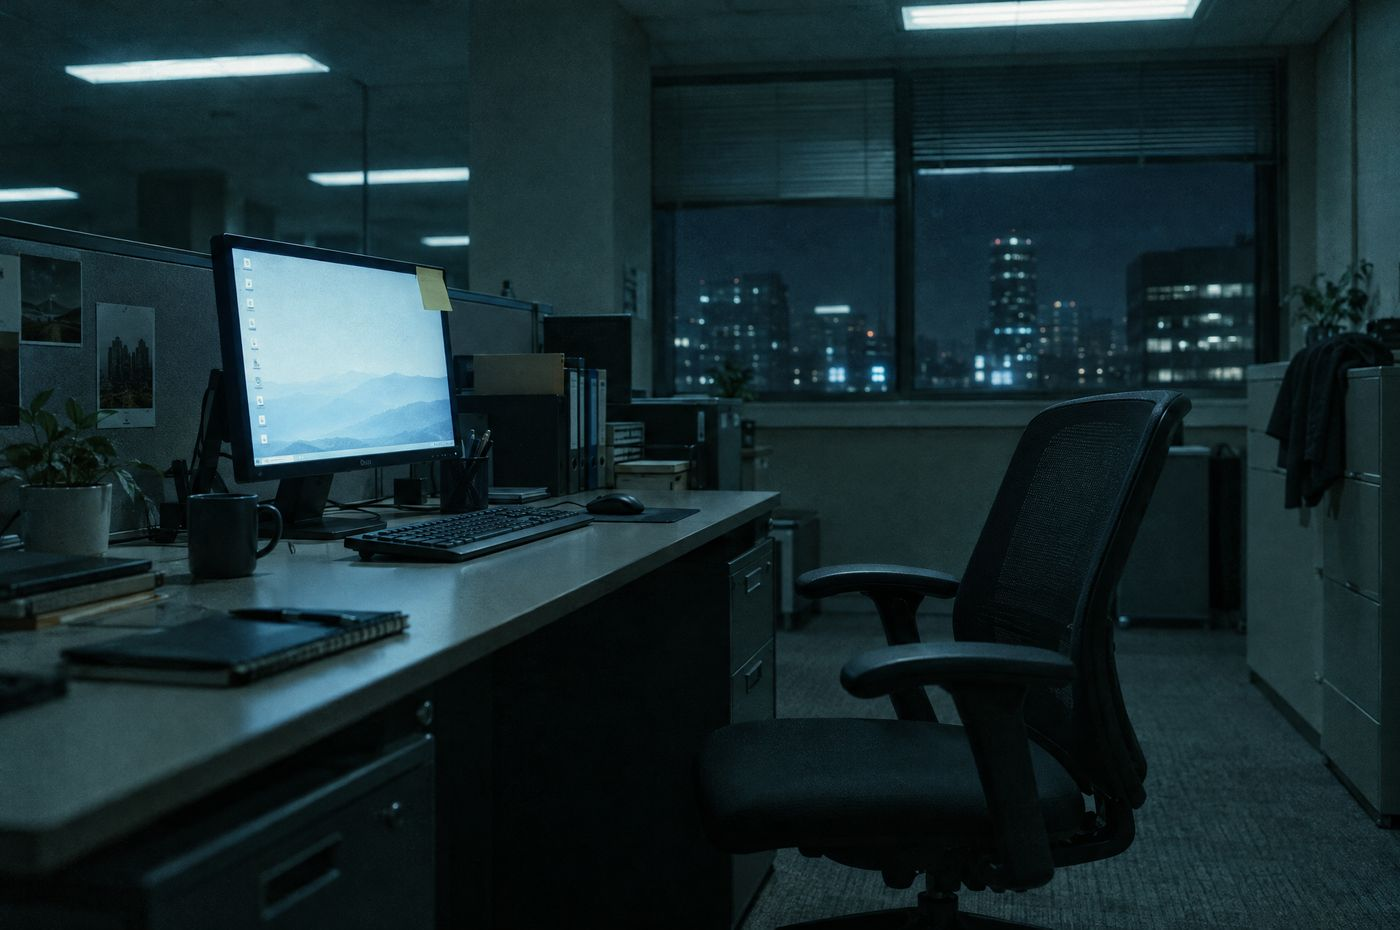
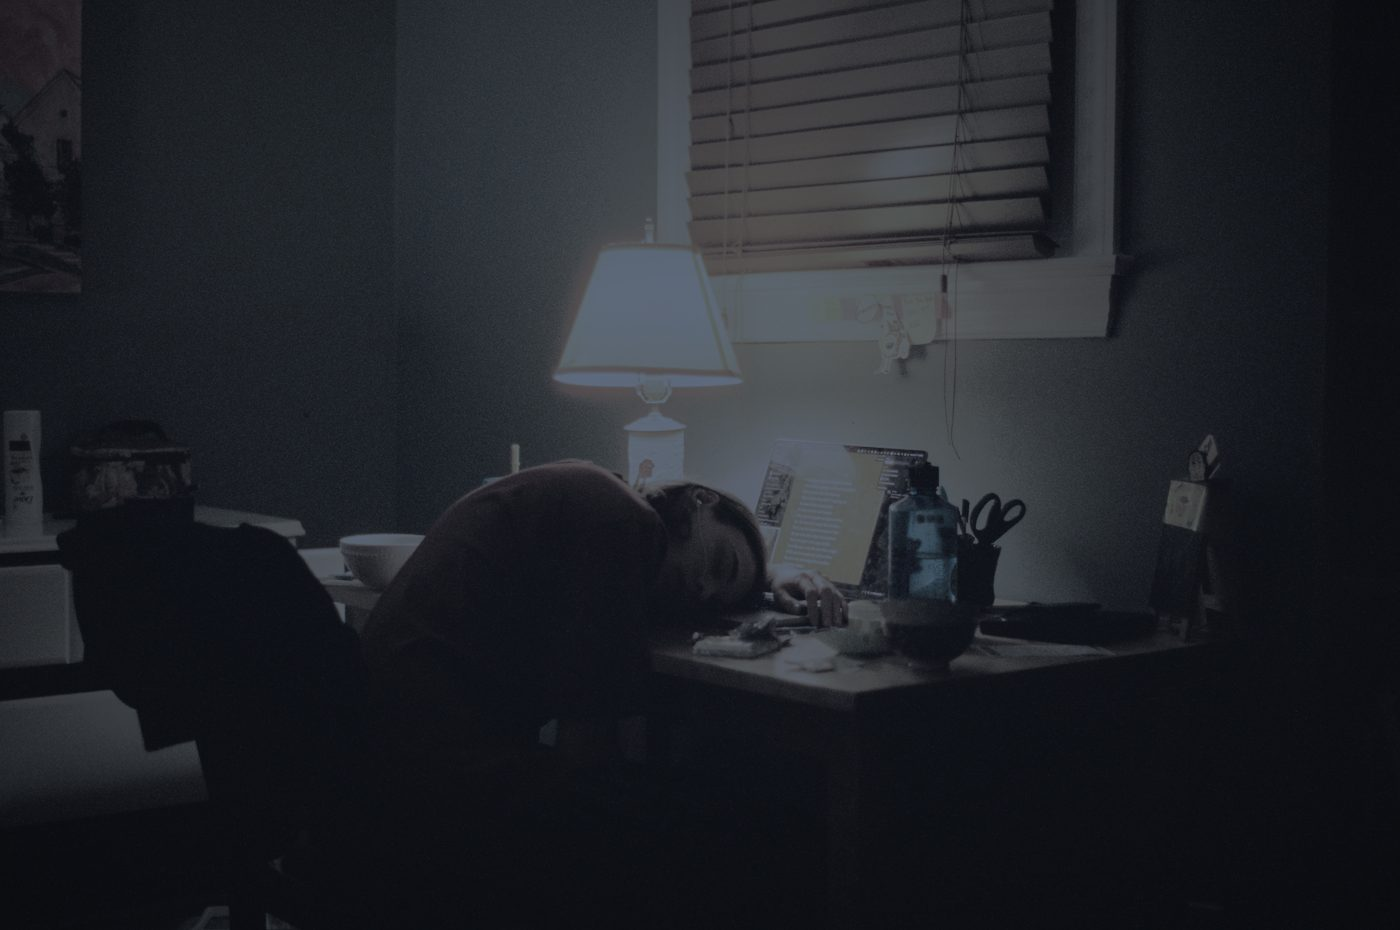
Architetto: nuove foto sezione 10 (scrivania cupa, firma senza computer)
Claude-Session: https://claude.ai/code/session_01HjUX5iQ16RtEKm3T2YEU96

diff --git a/src/components/patrimonial-architect-landing.tsx b/src/components/patrimonial-architect-landing.tsx
@@ -416,14 +416,14 @@ export function ArchitectLanding() {
       <h2 className={[styles['m-reveal'], styles.s152].filter(Boolean).join(" ")}>Tra dodici mesi sarai in uno di questi due posti.</h2>
       <div className={[styles.s135].filter(Boolean).join(" ")}>
         <div className={[styles.s153].filter(Boolean).join(" ")}>
-          <div className={[styles.s154].filter(Boolean).join(" ")}><Image width={1400} height={930} sizes="(max-width: 767px) 100vw, (max-width: 1199px) 80vw, 620px" className={[styles.s155, styles['cover']].filter(Boolean).join(" ")} src="/benessere-patrimoniale/percorso-architetto/stuck.jpg" alt="Immagine AI provvisoria: Una scrivania d&#x27;ufficio vuota di sera" /></div>
+          <div className={[styles.s154].filter(Boolean).join(" ")}><Image width={1400} height={930} sizes="(max-width: 767px) 100vw, (max-width: 1199px) 80vw, 620px" className={[styles.s155, styles['cover']].filter(Boolean).join(" ")} src="/benessere-patrimoniale/percorso-architetto/stuck.jpg" alt="Una persona crolla con la testa sulla scrivania, di sera, in una stanza buia" /></div>
           <div className={[styles.s156].filter(Boolean).join(" ")}>
             <div className={[styles.s157].filter(Boolean).join(" ")}>SE CHIUDI QUESTA PAGINA</div>
             <p className={[styles.s158].filter(Boolean).join(" ")}>Stessa scrivania, stesse domande della domenica sera. Continuerai ad aiutare gli amici gratis, chiedendoti ogni tanto &quot;e se…?&quot;</p>
           </div>
         </div>
         <div className={[styles.s159].filter(Boolean).join(" ")}>
-          <div className={[styles.s154].filter(Boolean).join(" ")}><Image width={1400} height={935} sizes="(max-width: 767px) 100vw, (max-width: 1199px) 80vw, 620px" className={[styles['cover']].filter(Boolean).join(" ")} src="/benessere-patrimoniale/percorso-architetto/conversazione.jpg" alt="Una professionista al portatile spiega un progetto a un cliente seduto di fronte a lei" /></div>
+          <div className={[styles.s154].filter(Boolean).join(" ")}><Image width={1400} height={935} sizes="(max-width: 767px) 100vw, (max-width: 1199px) 80vw, 620px" className={[styles['cover']].filter(Boolean).join(" ")} src="/benessere-patrimoniale/percorso-architetto/conversazione.jpg" alt="Due persone firmano un accordo su carta, guidate da un professionista seduto di fronte a loro" /></div>
           <div className={[styles.s156].filter(Boolean).join(" ")}>
             <div className={[styles.s160].filter(Boolean).join(" ")}>SE DEDICHI 30 MINUTI</div>
             <p className={[styles.s161].filter(Boolean).join(" ")}>Scopri un mestiere che ti somiglia e le persone pronte a insegnartelo. <strong className={[styles.s016].filter(Boolean).join(" ")}>In ogni caso, avrai scelto tu.</strong></p>
